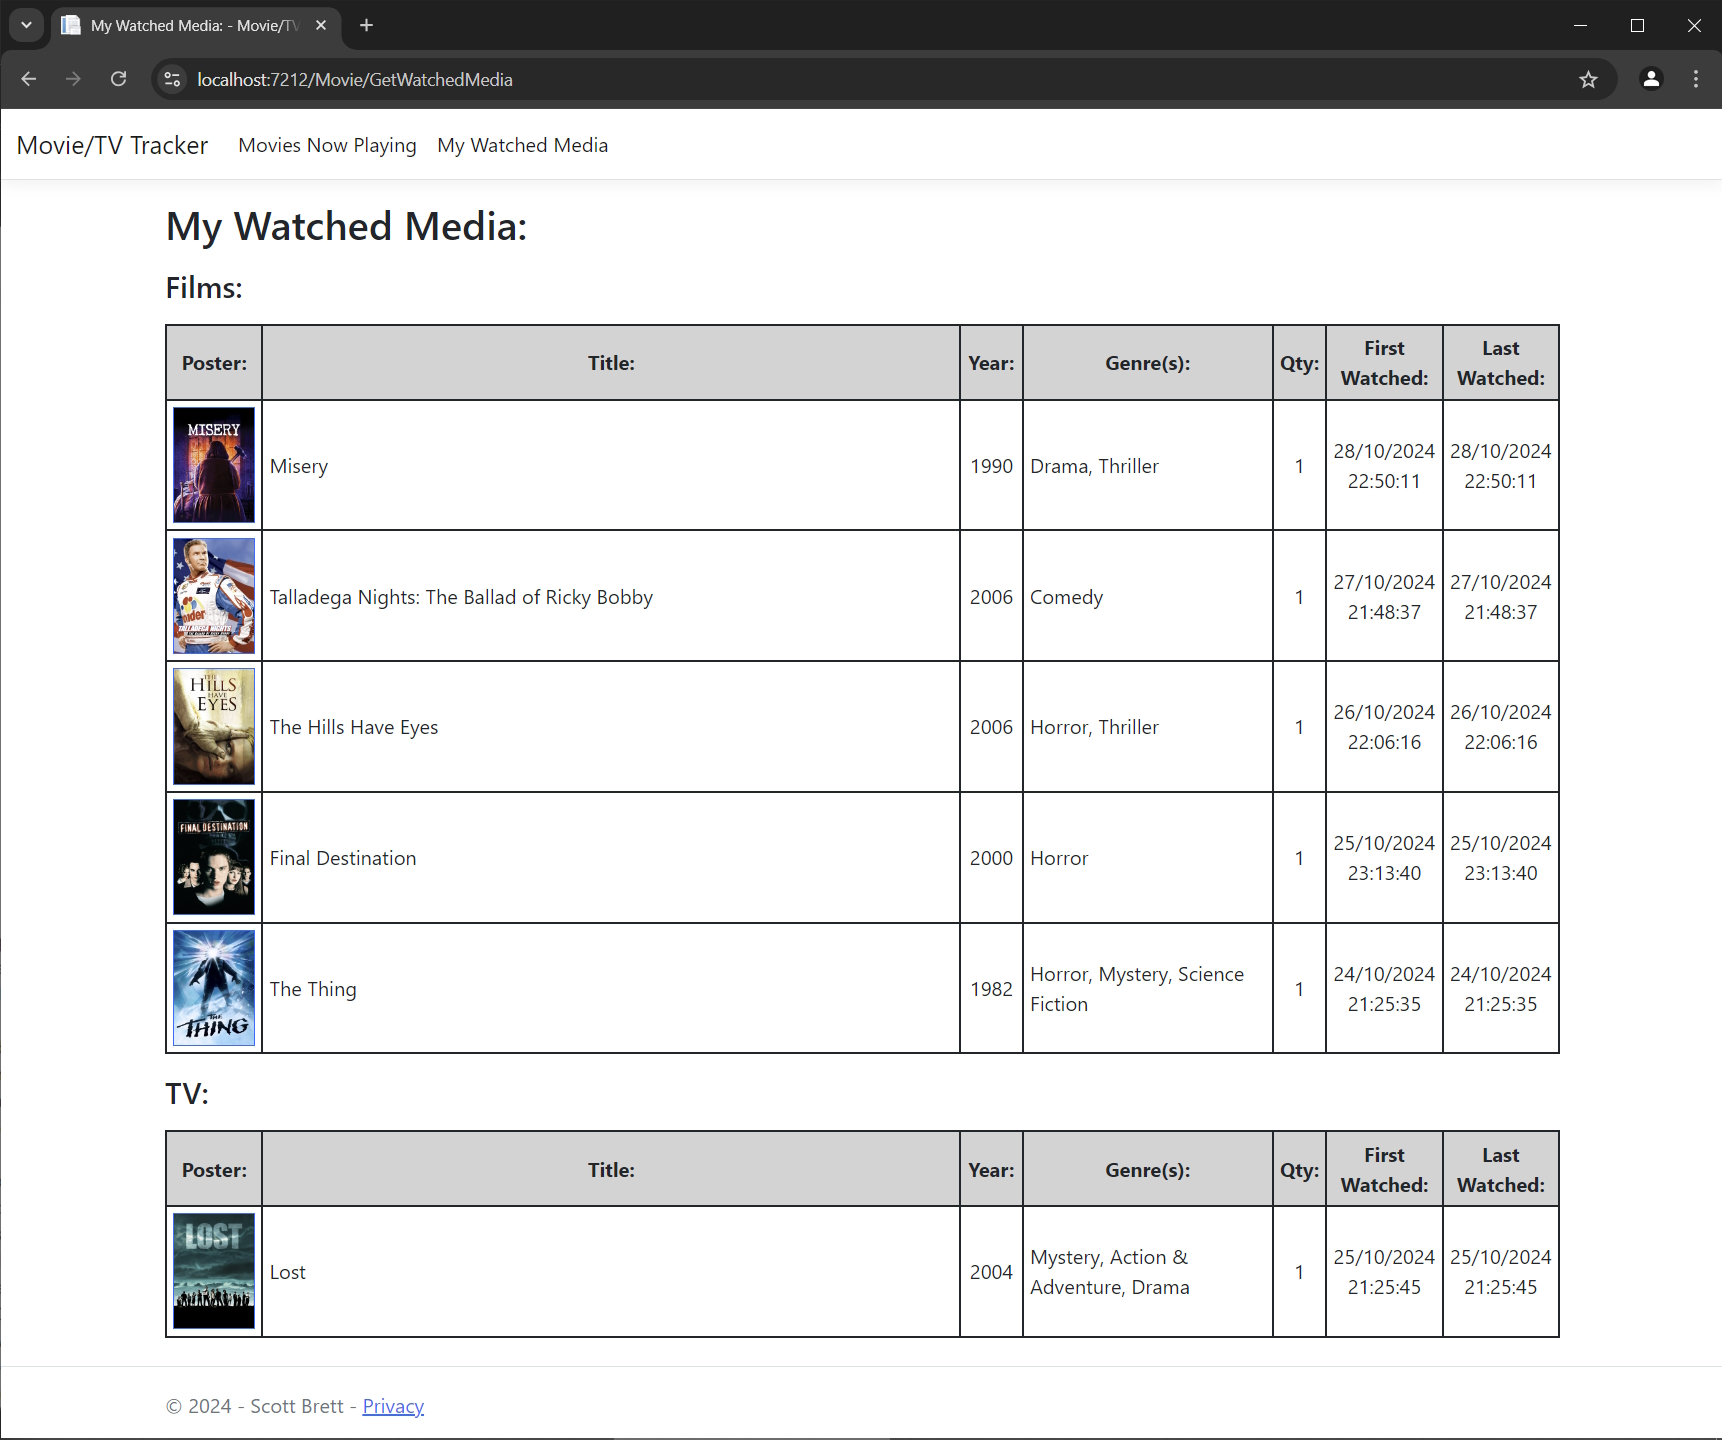
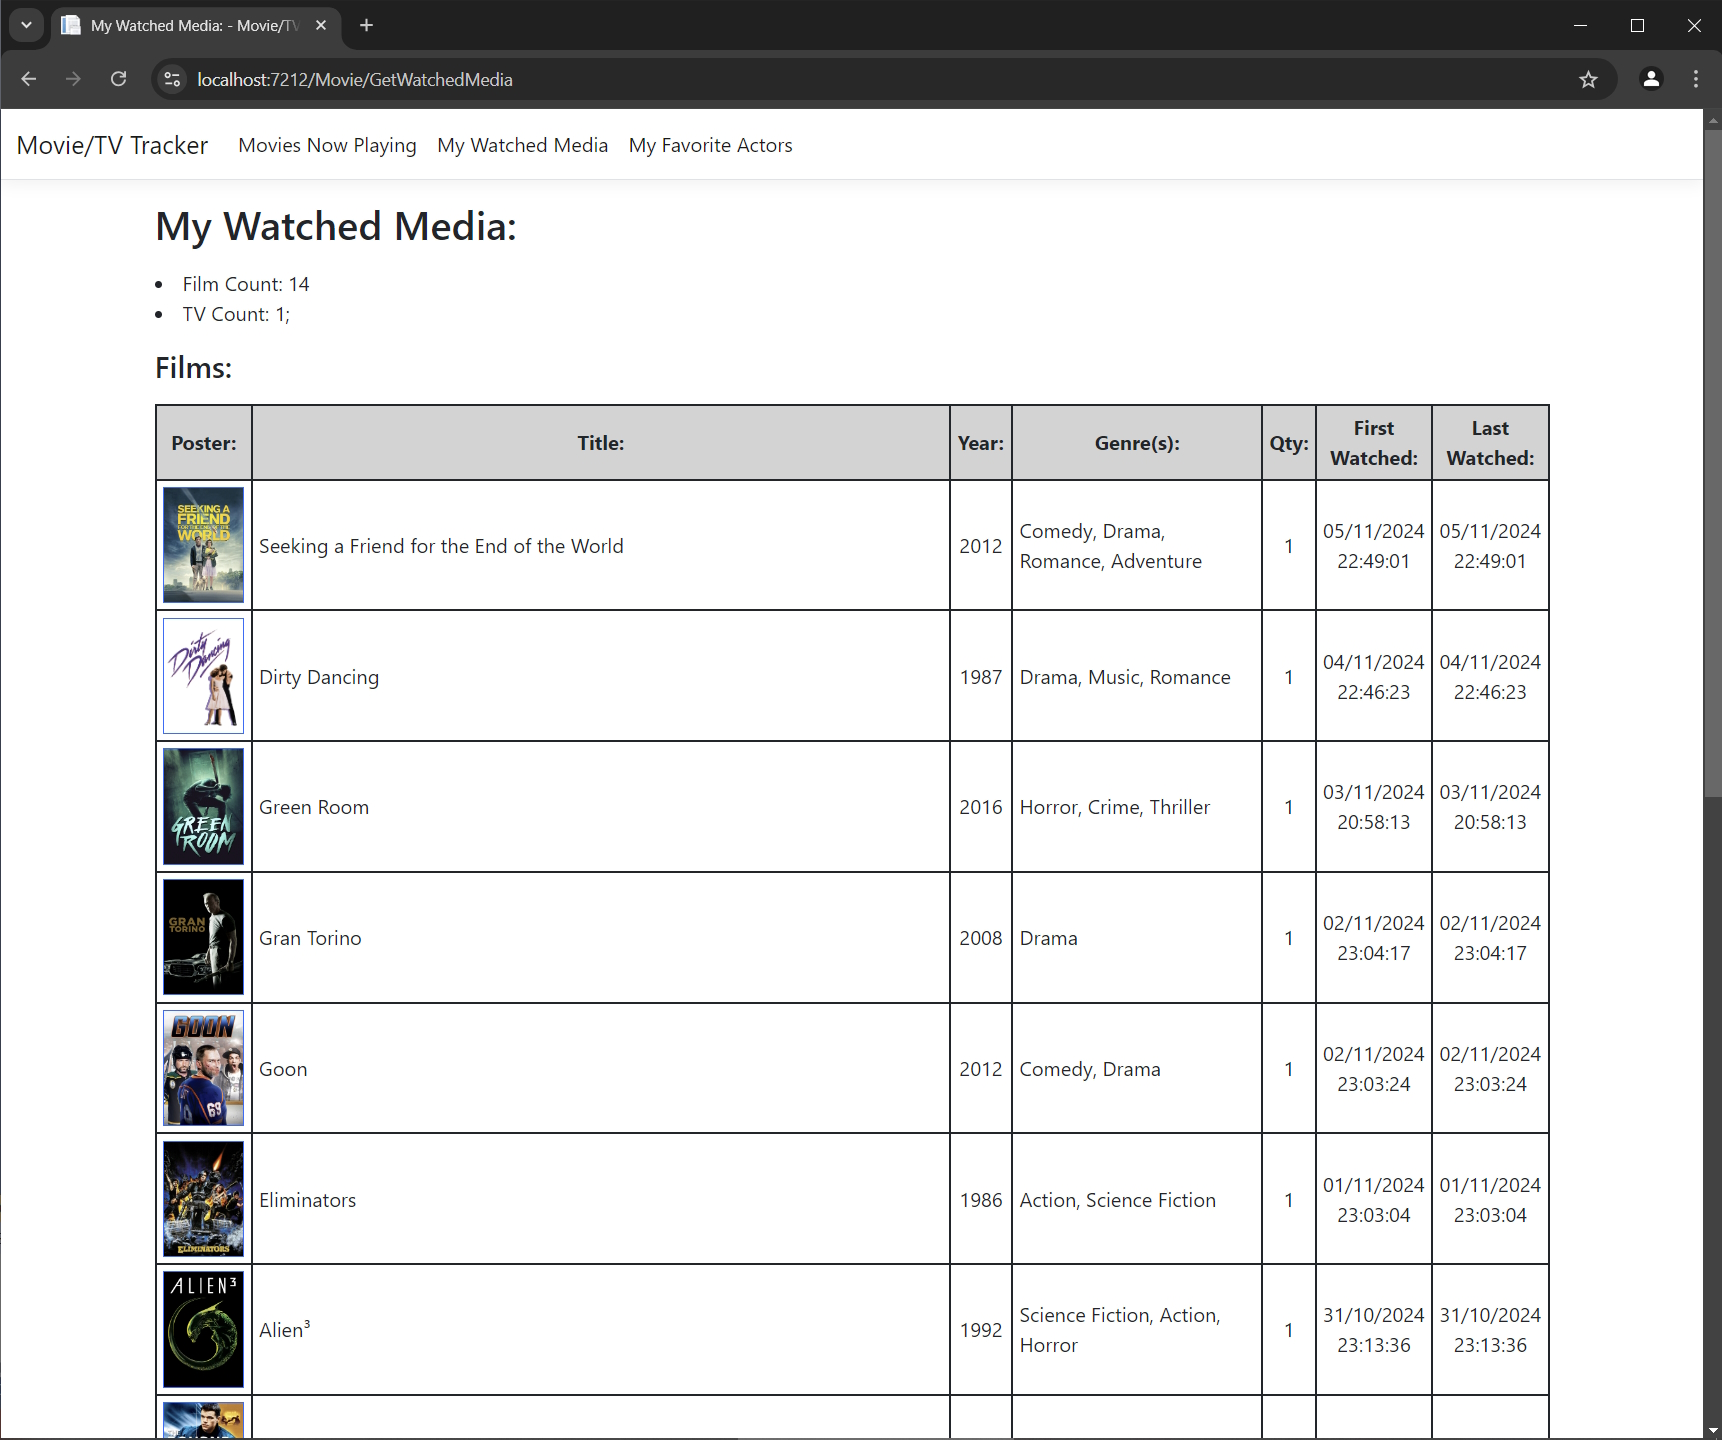
Addition of extra summary tags.  Section 'My Favorite Actors' added.  Added count stats at the top of various pages to show a bit of data on the results on the page.  Addition of new images, update to ReadMe.Md.

diff --git a/MovieTvTracker.Web/wwwroot/css/site.css b/MovieTvTracker.Web/wwwroot/css/site.css
@@ -58,7 +58,7 @@ th.siteTheme {
     height: 40%;
 }
 
-.personSearchImgSize, .myWatchedMediaImgSize {
+.personSearchImgSize, .myWatchedMediaImgSize, .myFavoriteActorsImgSize {
     width: 65px;
     height: 93px;
 }

diff --git a/MovieTvTracker.Web/Controllers/MovieController.cs b/MovieTvTracker.Web/Controllers/MovieController.cs
@@ -40,6 +40,10 @@ namespace MovieTvTracker.Web.Controllers
             return View(media);
         }
 
+        /// <summary>
+        /// Aquire watched media (film/tv) results from the database, run those results through TMDB API to get information and then feed that to the model that supplies the view.
+        /// </summary>
+        /// <returns></returns>
         public IActionResult GetWatchedMedia()
         {
             Media media = new Media();
@@ -69,6 +73,34 @@ namespace MovieTvTracker.Web.Controllers
             return View(media);
         }
 
+        /// <summary>
+        /// Aquire favorite actor results from the database, run those results through TMDB API to get information and then feed that to the model that supplies the view.
+        /// </summary>
+        /// <returns></returns>
+        public IActionResult GetFavoriteActors()
+        {
+            Media media = new Media();
+
+            foreach (FavoriteActor item in _db.FavoriteActor)
+            {
+                try
+                {
+                    media.FavoriteActorResults.Add(_tmdb.SearchForPersonAndCreditsById(item.TMDBId));
+                }
+                catch(Exception ex)
+                {
+                    // TODO: Add error handling
+                }
+            }
+
+            return View(media);
+        }
+
+        /// <summary>
+        /// Check if the selected TMDB ID exists in the database, if a result already exists update minimal req fields otherwise create a brand new 'WatchedMedia' entity result in the database.
+        /// </summary>
+        /// <param name="media"></param>
+        /// <returns></returns>
         public async Task<IActionResult> MarkAsWatched(Media media)
         {
             try
@@ -105,6 +137,11 @@ namespace MovieTvTracker.Web.Controllers
             return RedirectToAction("MoviesNowPlaying", "Movie");
         }
 
+        /// <summary>
+        /// Check if the selected TMDB ID exists in the database, if a result doesnt already exist then create a 'FavoriteActor' entity and add it to the database
+        /// </summary>
+        /// <param name="media"></param>
+        /// <returns></returns>
         public async Task<IActionResult> MarkFavoriteActor(Media media)
         {
             try

diff --git a/MovieTvTracker.Web/Models/Media.cs b/MovieTvTracker.Web/Models/Media.cs
@@ -9,6 +9,11 @@ namespace MovieTvTracker.Web.Models
         public string Keyword { get; set; }
         public ResultReturn TMDBData { get; set; }
         public WatchedMediaResults WatchedMediaResults { get; set; }
-        public FavoriteActorResults FavoriteActorResults { get; set; }
+        public List<ResultReturn> FavoriteActorResults { get; set; }
+
+        public Media()
+        {
+            FavoriteActorResults = new List<ResultReturn>();
+        }
     }
 }

diff --git a/README.md b/README.md
@@ -20,6 +20,7 @@ The second part of this project is a full-stack application consisting of a ASP.
 - Display of tv show information.
 - Display of actor/actress information.
 - Ability to mark films/tv shows the user has watched and have them displayed under a dedicated section for reference.
+- Ability to mark favorite actors and have them displayed under a dedicated section for reference.
 
 NOTE!:
 
@@ -63,6 +64,12 @@ Visual examples of some of the returned data from the rest based TMDB Api.
 ![Alt text](Images/MovieTvTrackerPersonResult2.jpg)
 ![Alt text](Images/MovieTvTrackerPersonResult3.jpg)
 ![Alt text](Images/MovieTvTrackerWatchedMedia1.jpg)
+![Alt text](Images/MovieTvTrackerFavoriteActor1.jpg)
+
+
+
+
+
 
 
 
